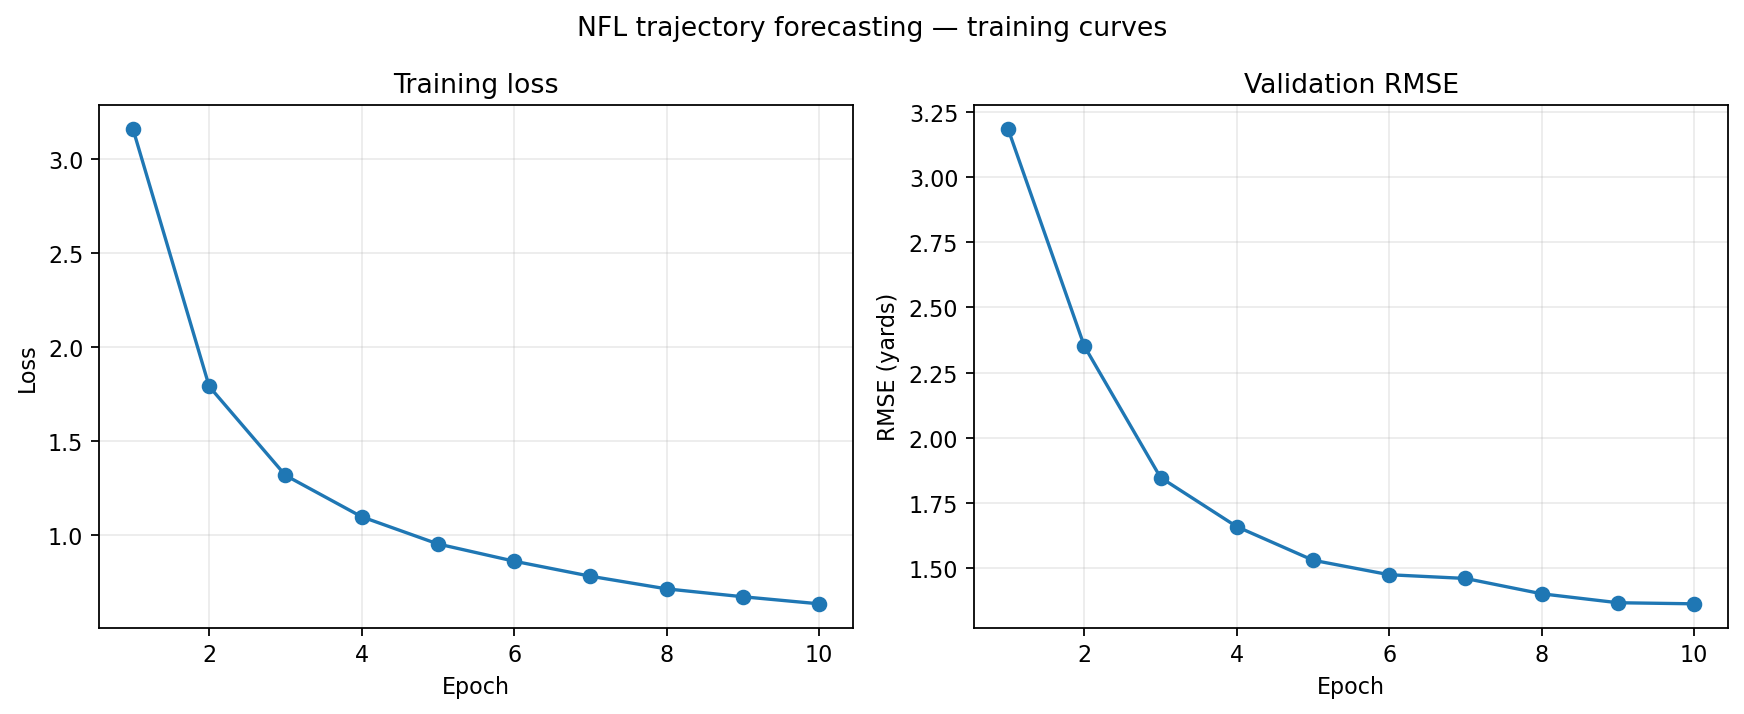
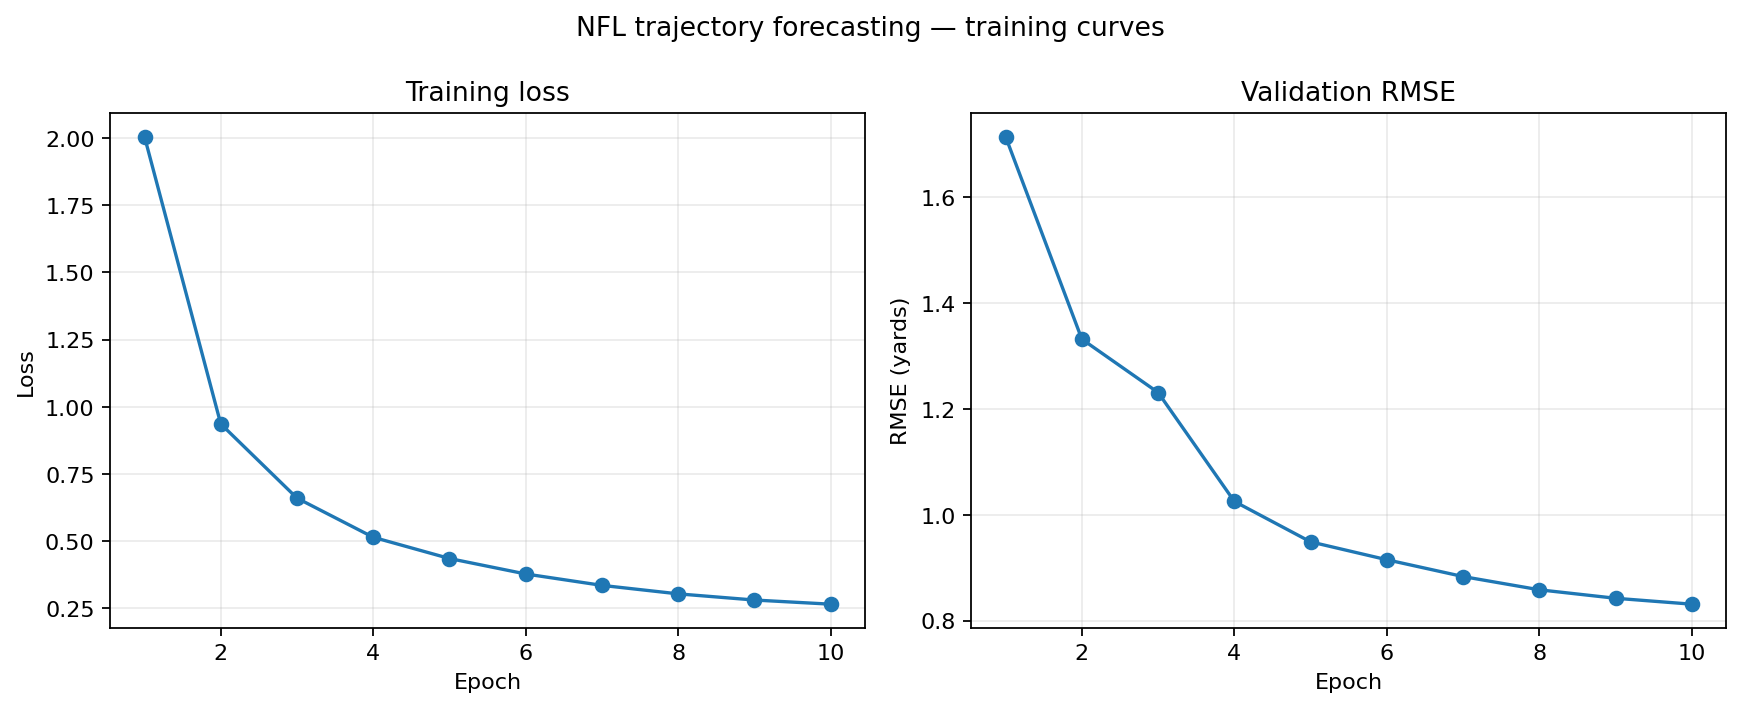
Update results: train on full 18-week dataset (val RMSE 0.831)

diff --git a/3rd_solution/REPORT.md b/3rd_solution/REPORT.md
@@ -139,39 +139,36 @@ The results in Section 7 were produced with:
 
 ```bash
 python notebooks/eda.py --data-dir data/train --week 1 --output-dir outputs/eda
-python src/preprocess.py --data-dir data/train --weeks 1 2 3 4 5 --window 20 \
-    --max-plays 20000 --output data/processed/weeks1-5.pkl
-python src/baseline.py --data data/processed/weeks1-5.pkl
-python src/train.py --data data/processed/weeks1-5.pkl --epochs 10 \
+python src/preprocess.py --data-dir data/train --weeks 1 2 3 4 5 6 7 8 9 10 11 12 13 14 15 16 17 18 \
+    --window 20 --output data/processed/weeks-all.pkl
+python src/baseline.py --data data/processed/weeks-all.pkl
+python src/train.py --data data/processed/weeks-all.pkl --epochs 10 \
     --batch-size 8 --hidden 192 --layers 2 --output checkpoints/model.pt
 python src/plot_training.py --history outputs/training_history.csv \
     --output outputs/training_curves.png
-python src/plot_trajectory.py --data data/processed/weeks1-5.pkl \
+python src/plot_trajectory.py --data data/processed/weeks-all.pkl \
     --checkpoint checkpoints/model.pt --index 0 --player-slot 0 \
     --output outputs/trajectory.png
 ```
-
-Scaling to more data — additional weeks via `--weeks 1 2 3 ...` — is
-straightforward and expected to improve validation RMSE further.
 
 ## 7. Results
 
 | Model | Validation RMSE (yards) |
 |---|---|
-| Stationary baseline | 4.077 |
-| Constant-velocity baseline | 5.565 |
-| STTransformer (this repository) | 1.365 |
+| Stationary baseline | 4.351 |
+| Constant-velocity baseline | 5.958 |
+| STTransformer (this repository) | 0.831 |
 
-Trained on weeks 1–5 (4,094 plays, 878 held out for validation), 10 epochs,
-hidden size 192, 2 layers. The model outperforms the stationary baseline by
-~67% and the constant-velocity baseline by ~75%. With more training data the
-gap between the model and both baselines widened substantially compared to
-training on a single week (where the model led the stationary baseline by
-only ~19%), consistent with the model needing sufficient data to learn
-player-specific and route-specific movement patterns that a fixed-rule
-baseline cannot capture. The constant-velocity baseline remains worse than
-the stationary one, for the same reason noted with the single-week run:
-players frequently change speed and direction while the ball is in the air.
+Trained on all 18 weeks of the 2023 season (2,765 plays held out for
+validation), 10 epochs, hidden size 192, 2 layers. The model outperforms the
+stationary baseline by ~81% and the constant-velocity baseline by ~86%.
+Validation RMSE improved consistently as more data was added: 4.020 on a
+single week, 1.365 on five weeks, 0.831 on the full 18 weeks — the model
+keeps extracting more signal from player-specific and route-specific
+movement patterns as training data grows, while the fixed-rule baselines
+stay flat. The constant-velocity baseline remains worse than the stationary
+one throughout, for the reason noted earlier: players frequently change
+speed and direction while the ball is in the air.
 
 Training/validation curves: `outputs/training_curves.png`. Example
 predicted vs. actual trajectory: `outputs/trajectory.png`.
